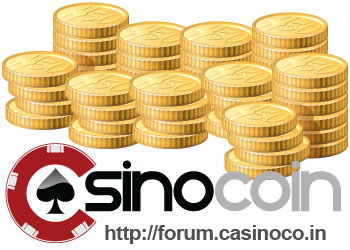
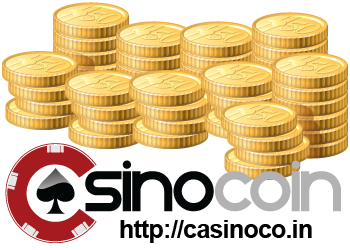
Update to wallet image and splash screen display

Changed region(s): [[0.2857, 0.868, 0.9429, 0.98]]

diff --git a/src/qt/splashscreen.cpp b/src/qt/splashscreen.cpp
@@ -42,7 +42,7 @@ SplashScreen::SplashScreen(const QPixmap &pixmap, Qt::WindowFlags f) :
     pixPaint.drawText(paddingLeftCol2,paddingTopCol2+line3,versionText);
 
     // draw copyright stuff
-    pixPaint.setFont(QFont(font, 9*fontFactor));
+//    pixPaint.setFont(QFont(font, 9*fontFactor));
 //    pixPaint.drawText(paddingLeftCol2,paddingTopCol2+line1,copyrightText1);
 //    pixPaint.drawText(paddingLeftCol2,paddingTopCol2+line2,copyrightText2);
 
